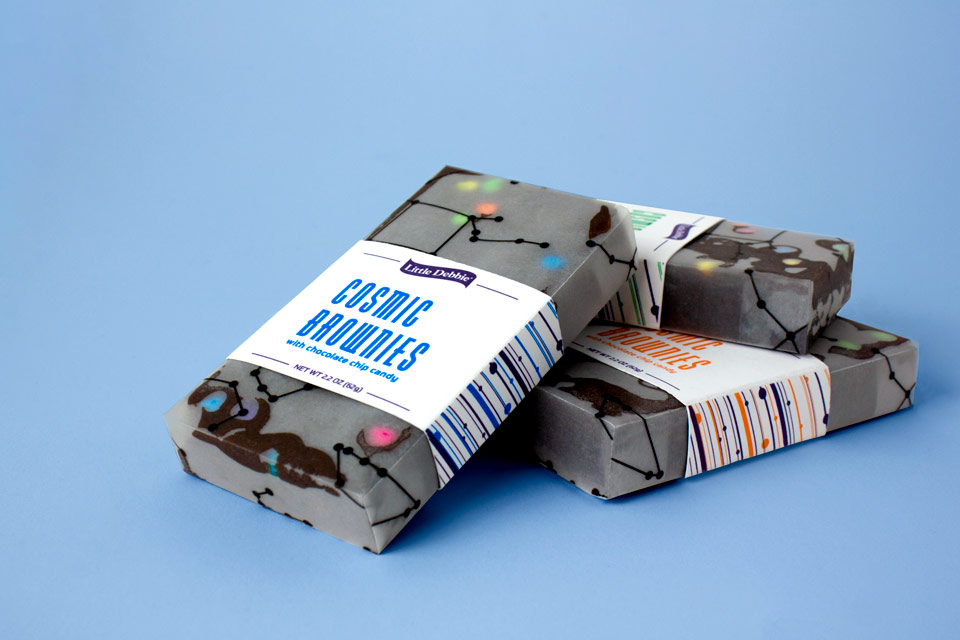
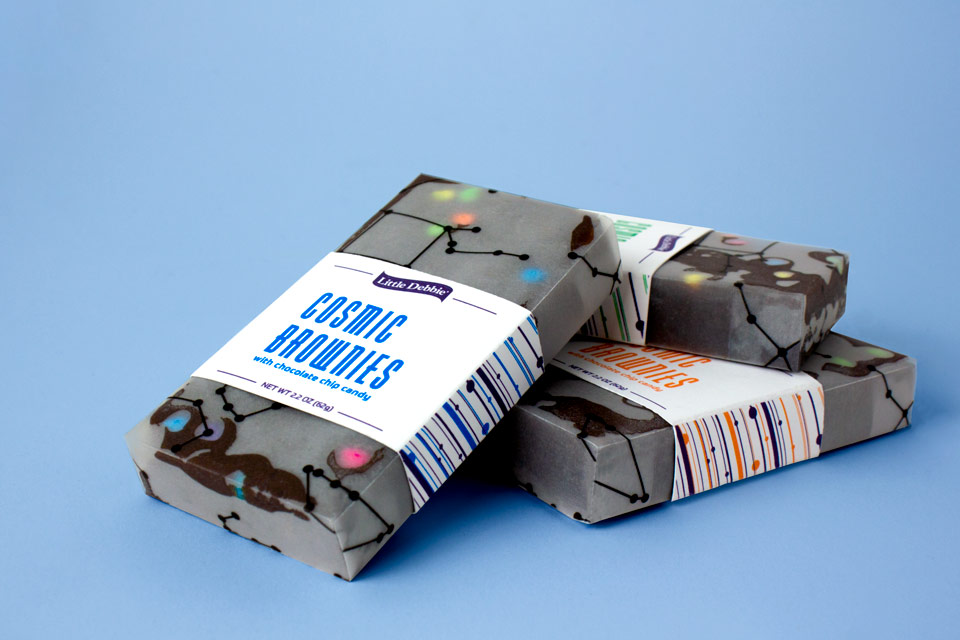
added cover imgs
added images to the project pages

Changed region(s): [[0.125, 0.25, 1.0, 0.9375]]

diff --git a/article.html b/article.html
@@ -28,7 +28,11 @@
         <header class="row" id="nav"></header>
         
         <!--cover image: give a quick snapshot of a final deliverable, or evoke project mood-->
-        <div class="row"></div>
+        <div class="row">
+            <div class="full column">
+                <img src="images/article-cover.jpg">
+            </div>
+        </div>
         
         <!--overview: name and product statement-->
         <div class="narrow row">

diff --git a/cosmicbrownies.html b/cosmicbrownies.html
@@ -29,7 +29,9 @@
         
         <!--cover image: give a quick snapshot of a final deliverable, or evoke project mood-->
         <div class="row">
-            <div class="full column"></div>
+            <div class="full column">
+                <img src="images/brownies-cover.jpg">
+            </div>
         </div>
         
         <!--overview: name and product statement-->

diff --git a/citydog.html b/citydog.html
@@ -29,7 +29,9 @@
         
         <!--cover image: give a quick snapshot of a final deliverable, or evoke project mood-->
         <div class="row">
-            <div class="full column"></div>
+            <div class="full column">
+                <img src="images/citydog-cover.jpg">
+            </div>
         </div>
         
         <!--overview: name and product statement-->

diff --git a/eyesee.html b/eyesee.html
@@ -28,7 +28,9 @@
         
         <!--cover image: give a quick snapshot of a final deliverable, or evoke project mood-->
         <div class="row">
-            <div class="full column"></div>
+            <div class="full column">
+                <img src="images/eyesee-cover.jpg">
+            </div>
         </div>
         
         <!--overview: name and product statement-->

diff --git a/reroll.html b/reroll.html
@@ -28,7 +28,9 @@
         
         <!--cover image: give a quick snapshot of a final deliverable, or evoke project mood-->
         <div class="row">
-            <div class="full column"></div>
+            <div class="full column">
+                <img src="images/reroll-cover.jpg">
+            </div>
         </div>
         
         <!--overview: name and product statement-->

diff --git a/square.html b/square.html
@@ -29,7 +29,9 @@
         
         <!--cover image: give a quick snapshot of a final deliverable, or evoke project mood-->
         <div class="row">
-            <div class="full column"></div>
+            <div class="full column">
+                <img src="images/square-cover.jpg">
+            </div>
         </div>
         
         <!--overview: name and product statement-->
